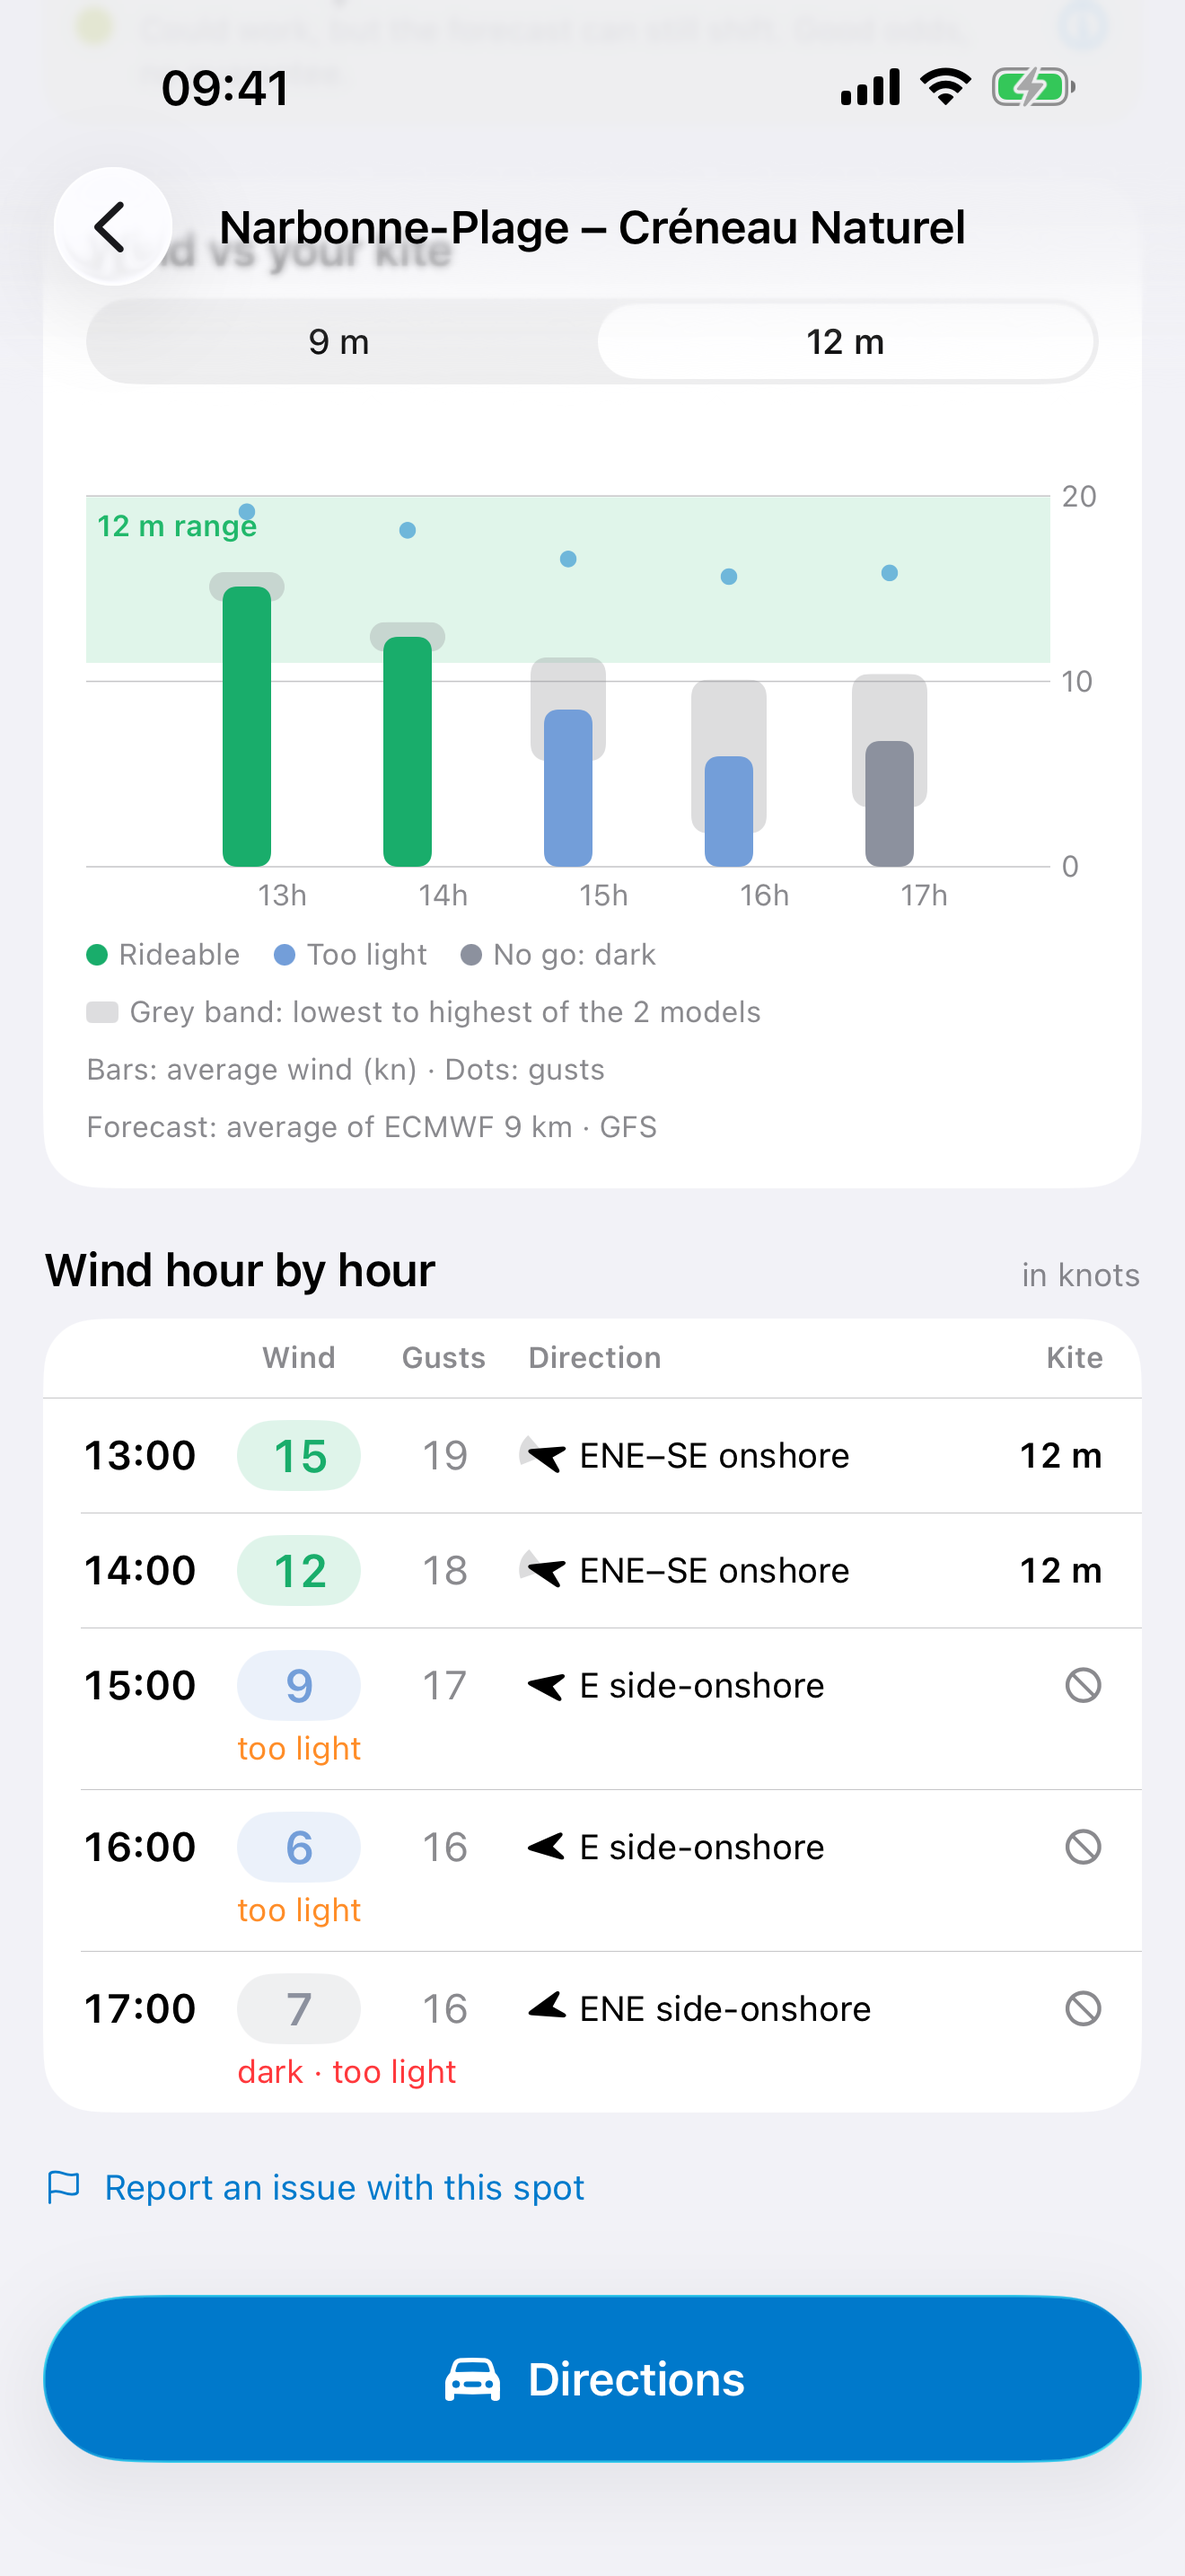
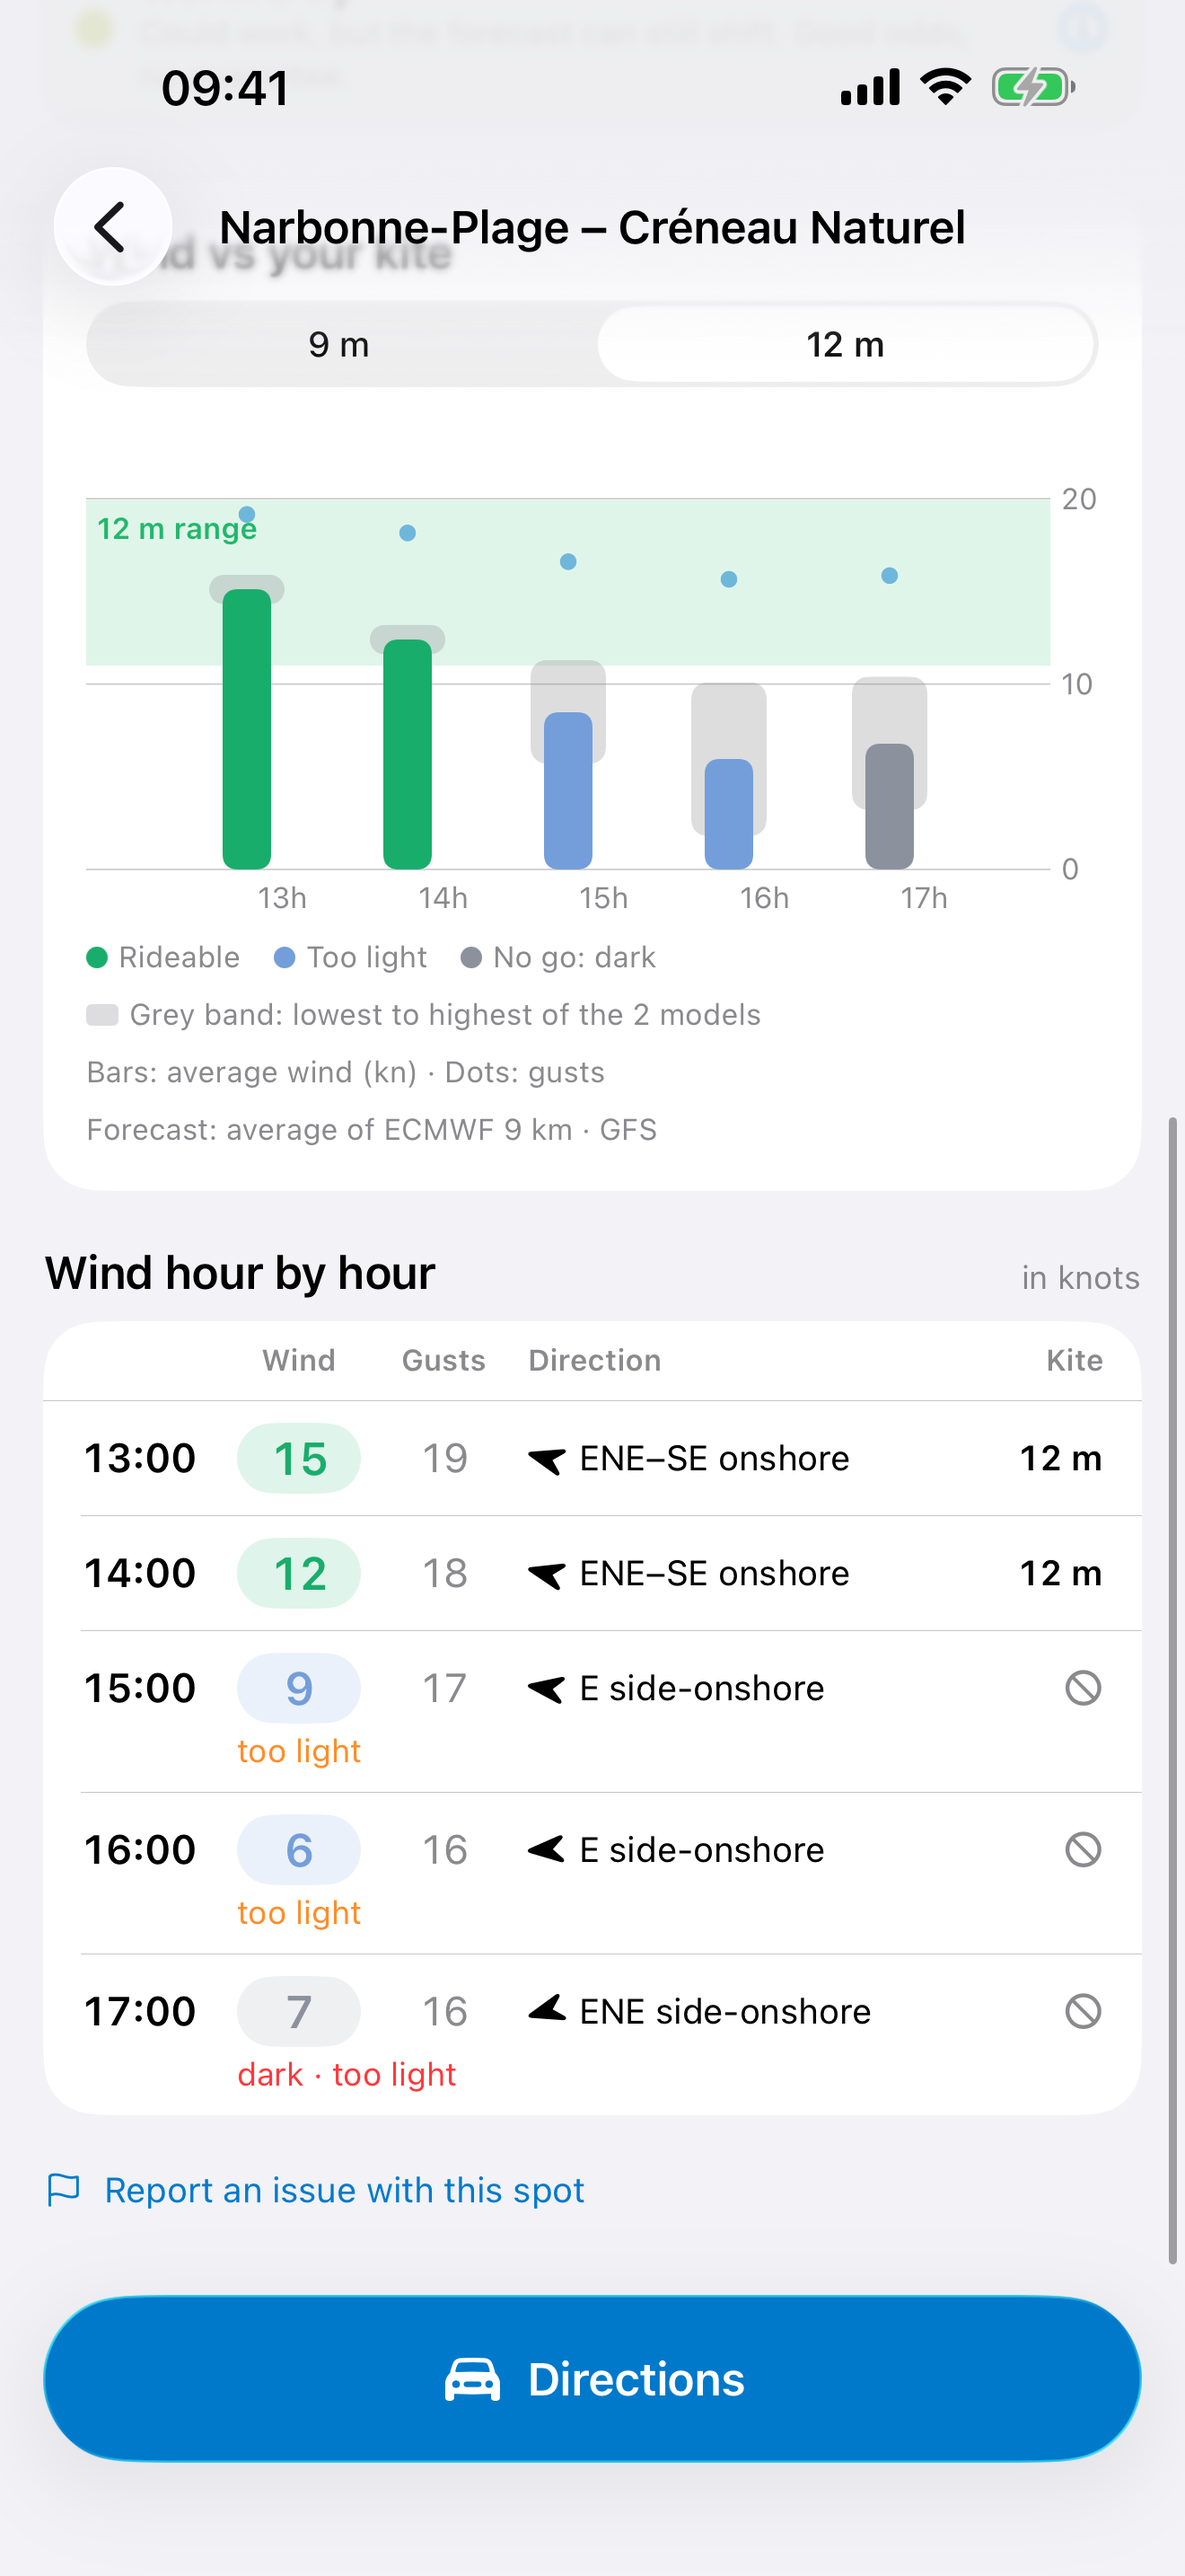
Spot map: fan of the models' directions over the beach, labelled; hour arrow fan dropped (WHE-242)

diff --git a/App/WhereToKite/Views/SpotDetailView.swift b/App/WhereToKite/Views/SpotDetailView.swift
@@ -135,22 +135,32 @@ struct SpotDetailView: View {
 
     /// Not draggable inside the scrolling page: a tap opens the full-screen map (WHE-156).
     private var heroMap: some View {
-        let wind = MapWind.summary(MapWind.highlightedHours(rec))
+        let hours = MapWind.highlightedHours(rec)
+        let wind = MapWind.summary(hours)
         return Map(initialPosition: .region(MKCoordinateRegion(
             center: coordinate, latitudinalMeters: 4000, longitudinalMeters: 4000)), interactionModes: []) {
             Marker(rec.spot.name, systemImage: "wind", coordinate: coordinate)
                 .tint(ScoreStyle.color(rec.finalScore))
-            if let wind { SpotWindOverlay(spot: rec.spot, wind: wind) }
+            if let wind { SpotWindOverlay(spot: rec.spot, wind: wind, modelArc: MapWind.modelArc(hours)) }
         }
         .mapStyle(.hybrid(elevation: .realistic))
         .frame(height: 210)
         .overlay(alignment: .topLeading) {
             if let wind {
-                Label(ShoreAngleStyle.label(wind), systemImage: "wind")
+                VStack(alignment: .leading, spacing: 1) {
+                    Label(ShoreAngleStyle.label(wind), systemImage: "wind")
+                    // WHE-242: the fan says what it is, beside the arrow's own label.
+                    if let arc = MapWind.modelArc(hours) {
+                        Text("Fan: models \(Vocab.compass(arc.from))–\(Vocab.compass(arc.to))",
+                             comment: "Spot map: the light fan behind the wind arrow spans the weather models' directions, e.g. 'Fan: models ENE–SE'")
+                            .font(.caption2)
+                            .foregroundStyle(.secondary)
+                    }
+                }
                     .font(.caption.weight(.semibold))
                     .padding(.horizontal, 9)
                     .padding(.vertical, 5)
-                    .background(.ultraThinMaterial, in: Capsule())
+                    .background(.ultraThinMaterial, in: RoundedRectangle(cornerRadius: 14, style: .continuous))
                     .padding(10)
                     .accessibilityIdentifier("spotMapWind")
             }
@@ -447,7 +457,7 @@ struct SpotDetailView: View {
                     .foregroundStyle(gustRuled ? fit.color : .secondary)
                     .frame(width: gustColumn)
                 HStack(spacing: 6) {
-                    WindArrow(directionDeg: h.wind.directionDeg, modelArc: h.wind.modelDirectionArcDeg)
+                    WindArrow(directionDeg: h.wind.directionDeg)
                         .font(.footnote)
                     Text(hourDirection(h))
                         .font(.footnote)

diff --git a/App/WhereToKite/Views/SpotMapView.swift b/App/WhereToKite/Views/SpotMapView.swift
@@ -26,6 +26,9 @@ enum ShoreAngleStyle {
 struct SpotWindOverlay: MapContent {
     let spot: Spot
     let wind: MapWind.Summary
+    /// The models' direction range (`MapWind.modelArc`): a light fan behind the arrow, from
+    /// the launch upwind over every way the models blow (WHE-242). nil = models agree.
+    var modelArc: (from: Double, to: Double)? = nil
     /// Arrow length on the ground; sized for the spot page's 4 km map.
     var lengthM: Double = 1100
 
@@ -41,6 +44,11 @@ struct SpotWindOverlay: MapContent {
                 .stroke(.black.opacity(0.55), style: StrokeStyle(lineWidth: 7, lineCap: .round))
             MapPolyline(coordinates: shore)
                 .stroke(.white, style: StrokeStyle(lineWidth: 3, lineCap: .round))
+        }
+        if let arc = modelArc {
+            MapPolygon(coordinates: cl(MapWind.fan(at: at, arc: arc, lengthM: lengthM)))
+                .foregroundStyle(.white.opacity(0.22))
+                .stroke(.white.opacity(0.6), lineWidth: 1)
         }
         let arrow = MapWind.arrow(at: at, fromDeg: wind.directionDeg, lengthM: lengthM)
         let color = ShoreAngleStyle.color(wind.relativeAngle)
@@ -91,7 +99,7 @@ struct SpotMapScreen: View {
                    coordinate: CLLocationCoordinate2D(latitude: rec.spot.latitude, longitude: rec.spot.longitude))
                 .tint(ScoreStyle.color(rec.finalScore))
             if let h = hour, let wind = MapWind.summary([h]) {
-                SpotWindOverlay(spot: rec.spot, wind: wind)
+                SpotWindOverlay(spot: rec.spot, wind: wind, modelArc: h.wind.modelDirectionArcDeg)
             }
         }
         .mapStyle(satellite ? .hybrid(elevation: .realistic) : .standard(elevation: .realistic))
@@ -149,6 +157,13 @@ struct SpotMapScreen: View {
                         Image(systemName: "circle.fill").foregroundStyle(ShoreAngleStyle.color(a))
                     }
                     .font(.subheadline.weight(.semibold))
+                }
+                if let arc = h.wind.modelDirectionArcDeg {
+                    Text("Fan: models \(Vocab.compass(arc.from))–\(Vocab.compass(arc.to))",
+                         comment: "Spot map: the light fan behind the wind arrow spans the weather models' directions, e.g. 'Fan: models ENE–SE'")
+                        .font(.footnote)
+                        .foregroundStyle(.secondary)
+                        .accessibilityIdentifier("spotMapModelFan")
                 }
                 if rec.hours.count > 1 {
                     Slider(value: $index, in: 0...Double(rec.hours.count - 1), step: 1) {

diff --git a/App/WhereToKite/Views/Components.swift b/App/WhereToKite/Views/Components.swift
@@ -105,40 +105,11 @@ struct ScoreRing: View {
 /// Arrow pointing where the wind blows TO (direction is where it comes FROM).
 struct WindArrow: View {
     let directionDeg: Double
-    /// The models' direction range (`HourlyWind.modelDirectionArcDeg`): a faint fan behind the
-    /// arrow covers every way the models make it point (WHE-242). nil = models agree.
-    var modelArc: (from: Double, to: Double)? = nil
 
     var body: some View {
         Image(systemName: "location.north.fill")
             .rotationEffect(.degrees(directionDeg + 180))
-            .background {
-                if let arc = modelArc {
-                    // The arrow points downwind: the fan is the range turned by 180°.
-                    WindFan(fromDeg: arc.from + 180, toDeg: arc.to + 180)
-                        .fill(Color.secondary.opacity(0.3))
-                        .scaleEffect(1.5)
-                }
-            }
             .accessibilityLabel("Wind from \(Vocab.compass(directionDeg))")
-    }
-}
-
-/// A pie slice from the centre, clockwise from one compass bearing to another.
-private struct WindFan: Shape {
-    let fromDeg: Double
-    let toDeg: Double
-
-    func path(in rect: CGRect) -> Path {
-        let c = CGPoint(x: rect.midX, y: rect.midY), r = min(rect.width, rect.height) / 2
-        let sweep = (toDeg - fromDeg).truncatingRemainder(dividingBy: 360) + (toDeg >= fromDeg ? 0 : 360)
-        var p = Path()
-        p.move(to: c)
-        // Bearing 0 is up; screen angles start at +x with y down, so turning by +θ is clockwise.
-        p.addArc(center: c, radius: r, startAngle: .degrees(fromDeg - 90),
-                 endAngle: .degrees(fromDeg - 90 + sweep), clockwise: false)
-        p.closeSubpath()
-        return p
     }
 }
 

diff --git a/Sources/KiteCore/Models.swift b/Sources/KiteCore/Models.swift
@@ -405,12 +405,17 @@ public struct HourlyWind: Codable, Hashable, Sendable {
     /// degrees, across north when needed), or nil when the models are within
     /// `directionRangeShownDeg` of each other (display only, WHE-242).
     public var modelDirectionArcDeg: (from: Double, to: Double)? {
-        guard let raw = modelDirectionsDeg, raw.count > 1 else { return nil }
+        Self.directionArc(modelDirectionsDeg ?? [])
+    }
+
+    /// The smallest clockwise arc holding these directions, nil under `directionRangeShownDeg`.
+    public static func directionArc(_ raw: [Double]) -> (from: Double, to: Double)? {
+        guard raw.count > 1 else { return nil }
         let d = raw.map { ($0.truncatingRemainder(dividingBy: 360) + 360).truncatingRemainder(dividingBy: 360) }.sorted()
         // The arc is everything but the largest gap between neighbours (the wrap gap included).
         var gapAfter = d.count - 1, widest = d[0] + 360 - d[d.count - 1]
         for i in 0..<(d.count - 1) where d[i + 1] - d[i] > widest { widest = d[i + 1] - d[i]; gapAfter = i }
-        guard 360 - widest >= Self.directionRangeShownDeg else { return nil }
+        guard 360 - widest >= directionRangeShownDeg else { return nil }
         return (d[(gapAfter + 1) % d.count], d[gapAfter])
     }
 

diff --git a/Sources/KiteCore/MapWind.swift b/Sources/KiteCore/MapWind.swift
@@ -59,6 +59,21 @@ public enum MapWind {
         return ([tail, spot], [left, spot, right])
     }
 
+    /// The models' direction range over these hours (every model, every hour), for a fan on
+    /// the map (WHE-242). nil when they stay within `HourlyWind.directionRangeShownDeg`.
+    public static func modelArc(_ hours: [HourScore]) -> (from: Double, to: Double)? {
+        HourlyWind.directionArc(hours.flatMap { $0.wind.modelDirectionsDeg ?? [] })
+    }
+
+    /// A pie slice from the spot reaching `lengthM` upwind, clockwise over the arc, as a polygon.
+    public static func fan(at spot: Coordinate, arc: (from: Double, to: Double), lengthM: Double) -> [Coordinate] {
+        let sweep = (arc.to - arc.from + 360).truncatingRemainder(dividingBy: 360)
+        let steps = max(2, Int(sweep / 5))
+        return [spot] + (0...steps).map {
+            Geo.destination(spot, bearingDeg: arc.from + sweep * Double($0) / Double(steps), distanceM: lengthM)
+        }
+    }
+
     /// The beach line through the spot: perpendicular to the way it faces, `halfLengthM` each side.
     public static func shoreLine(at spot: Coordinate, seaFacingDeg: Double, halfLengthM: Double) -> [Coordinate] {
         [Geo.destination(spot, bearingDeg: seaFacingDeg - 90, distanceM: halfLengthM),

diff --git a/Tests/KiteCoreTests/ModelDirectionArcTests.swift b/Tests/KiteCoreTests/ModelDirectionArcTests.swift
@@ -39,3 +39,25 @@ final class ModelDirectionArcTests: XCTestCase {
         XCTAssertEqual((b.to - b.from + 360).truncatingRemainder(dividingBy: 360), 240)
     }
 }
+
+/// WHE-242: the map's fan covers every model of every hour in the window.
+final class MapModelFanTests: XCTestCase {
+    private func hour(_ dirs: [Double]) -> HourScore {
+        var w = HourlyWind(localTime: "2026-11-20T14:00", speedKn: 15, gustKn: 20, directionDeg: dirs[0])
+        w.modelDirectionsDeg = dirs
+        return HourScore(wind: w, score: 1, kite: nil, relativeAngle: nil, flags: [])
+    }
+
+    func testFanSpansAllHoursAcrossNorth() throws {
+        let arc = try XCTUnwrap(MapWind.modelArc([hour([330, 355]), hour([10, 20])]))
+        XCTAssertEqual(arc.from, 330)
+        XCTAssertEqual(arc.to, 20)
+        let pts = MapWind.fan(at: Coordinate(latitude: 41, longitude: 2), arc: arc, lengthM: 1000)
+        XCTAssertEqual(pts.first?.latitude, 41)
+        XCTAssertGreaterThan(pts.count, 3)
+    }
+
+    func testNoFanWhenModelsAgree() {
+        XCTAssertNil(MapWind.modelArc([hour([90, 100]), hour([95, 110])]))
+    }
+}

diff --git a/docs/review/whe242-before-after.md b/docs/review/whe242-before-after.md
@@ -2,6 +2,15 @@
 
 Real forecasts, Barcelona, 12 m / 9 m, intermediate, afternoon. No scoring change.
 
+### Spot map (top of the page)
+
+| Case | Before | After |
+|---|---|---|
+| Go, models ENE–SE (Narbonne-Plage, 24 Nov) | ![](whe242-before-go-top.png) | ![](whe242-after-go-top.png) |
+| Models split (El Trabucador, 25 Nov) | ![](whe242-before-split-top.png) | ![](whe242-after-split-top.png) |
+
+### Chart and hour by hour
+
 | Case | Before | After |
 |---|---|---|
 | Go, models ENE–SE (Narbonne-Plage, 24 Nov) | ![](whe242-before-go-chart.png) | ![](whe242-after-go-chart.png) |
@@ -12,7 +21,13 @@ Real forecasts, Barcelona, 12 m / 9 m, intermediate, afternoon. No scoring chang
 
 1. **Grey band**: its own legend line under the chart, "Grey band: lowest to highest of the 3 models" (the real count). The caption no longer says "Shade".
 2. **"Ruled out" → "No go: <why>"**, naming the reasons of the grey hours: storm, ban, too late, dark, unsure direction, offshore, tide. Plain "No go" if none applies. A long list moves to its own line.
-3. **Direction range**: when the models are 45° or more apart (two compass points), the hour shows their range ("ENE–SE", the right way round north) and a faint fan behind the arrow. Quiet otherwise. Hours scored on the worse direction (WHE-231) say "models disagree on direction: the worse one counts".
+3. **Direction range**, only when the models are 45° or more apart (two compass points), quiet otherwise:
+   - **Hour by hour**: the hour shows their range, "ENE–SE" (the right way round north). Hours scored on the worse direction (WHE-231) say "models disagree on direction: the worse one counts".
+   - **Spot map**: a light fan behind the arrow over every way the models blow during the best window, labelled under the wind chip ("Fan: models ENE–SE"). The full-screen map shows it hour by hour as you slide.
+
+## What was tried, and what was kept
+
+Both places, as you asked. **Kept: the map fan and the "ENE–SE" text in the hour list.** The map fan sits over the beach, so you see straight away whether the models' spread reaches offshore; it is quiet and labelled. **Dropped: a mini fan behind each hour's small arrow**: at that size it looks like a smudge and adds nothing the "ENE–SE" text doesn't say ([tried version](whe242-tried-arrowfan-go-chart.png), [split spot](whe242-tried-arrowfan-split-chart.png)).
 
 ## Wording
 
@@ -21,4 +36,5 @@ Real forecasts, Barcelona, 12 m / 9 m, intermediate, afternoon. No scoring chang
 | Grey band: lowest to highest of the 3 models | Bande grise : du plus bas au plus haut des 3 modèles | Banda gris: del más bajo al más alto de los 3 modelos |
 | No go: storm, dark | No go : orage, nuit | No go: tormenta, noche |
 | ban · too late · unsure direction · offshore · tide | interdit · trop tard · direction incertaine · offshore · marée | prohibido · demasiado tarde · dirección dudosa · offshore · marea |
+| Fan: models ENE–SE | Éventail : modèles ENE–SE | Abanico: modelos ENE–SE |
 | models disagree on direction: the worse one counts | les modèles divergent sur la direction : la pire compte | los modelos no coinciden en la dirección: cuenta la peor |
